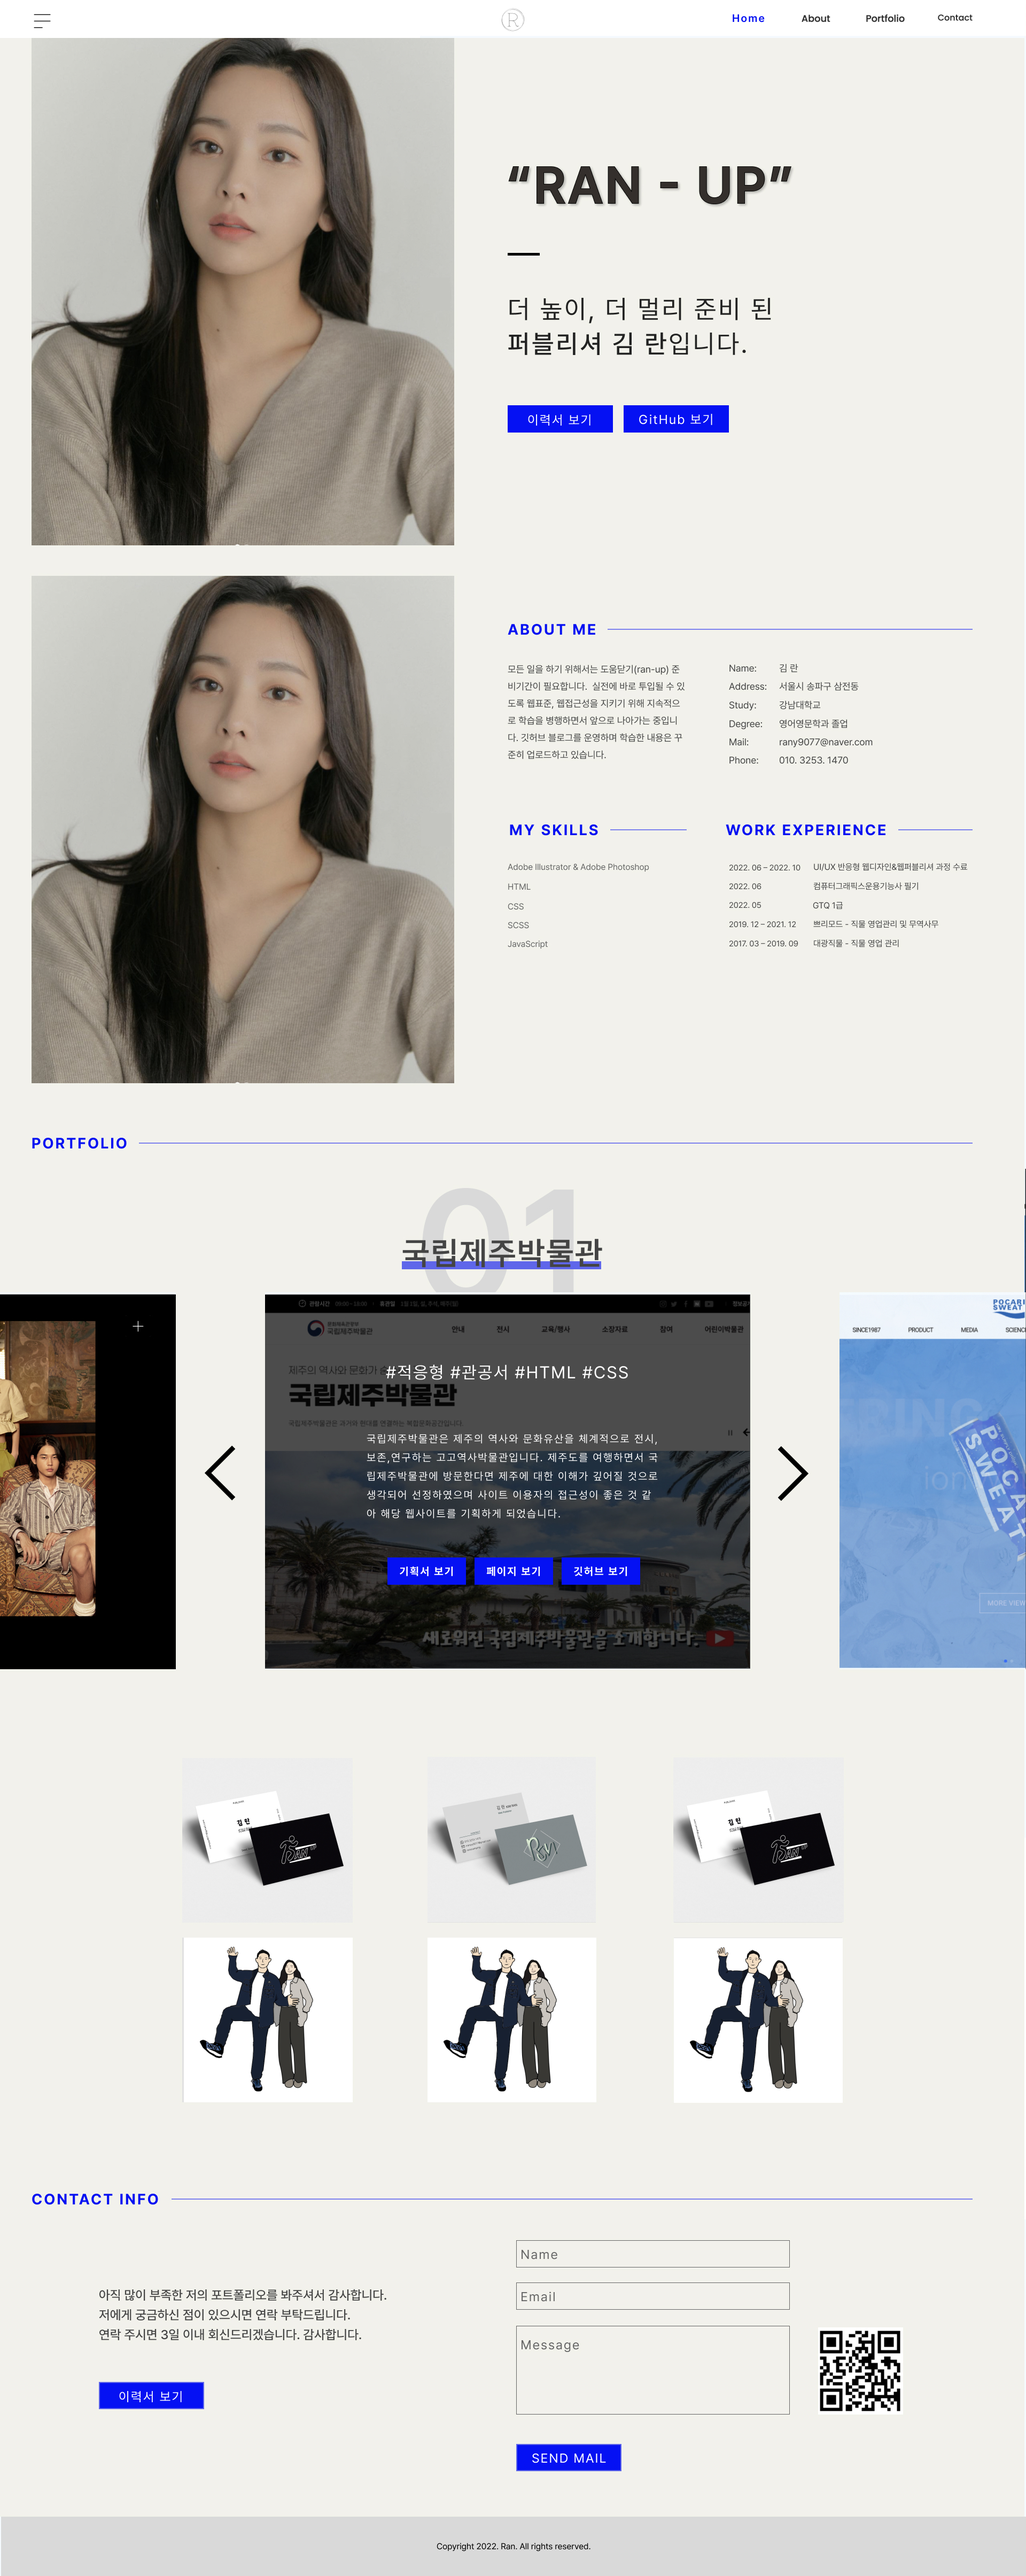
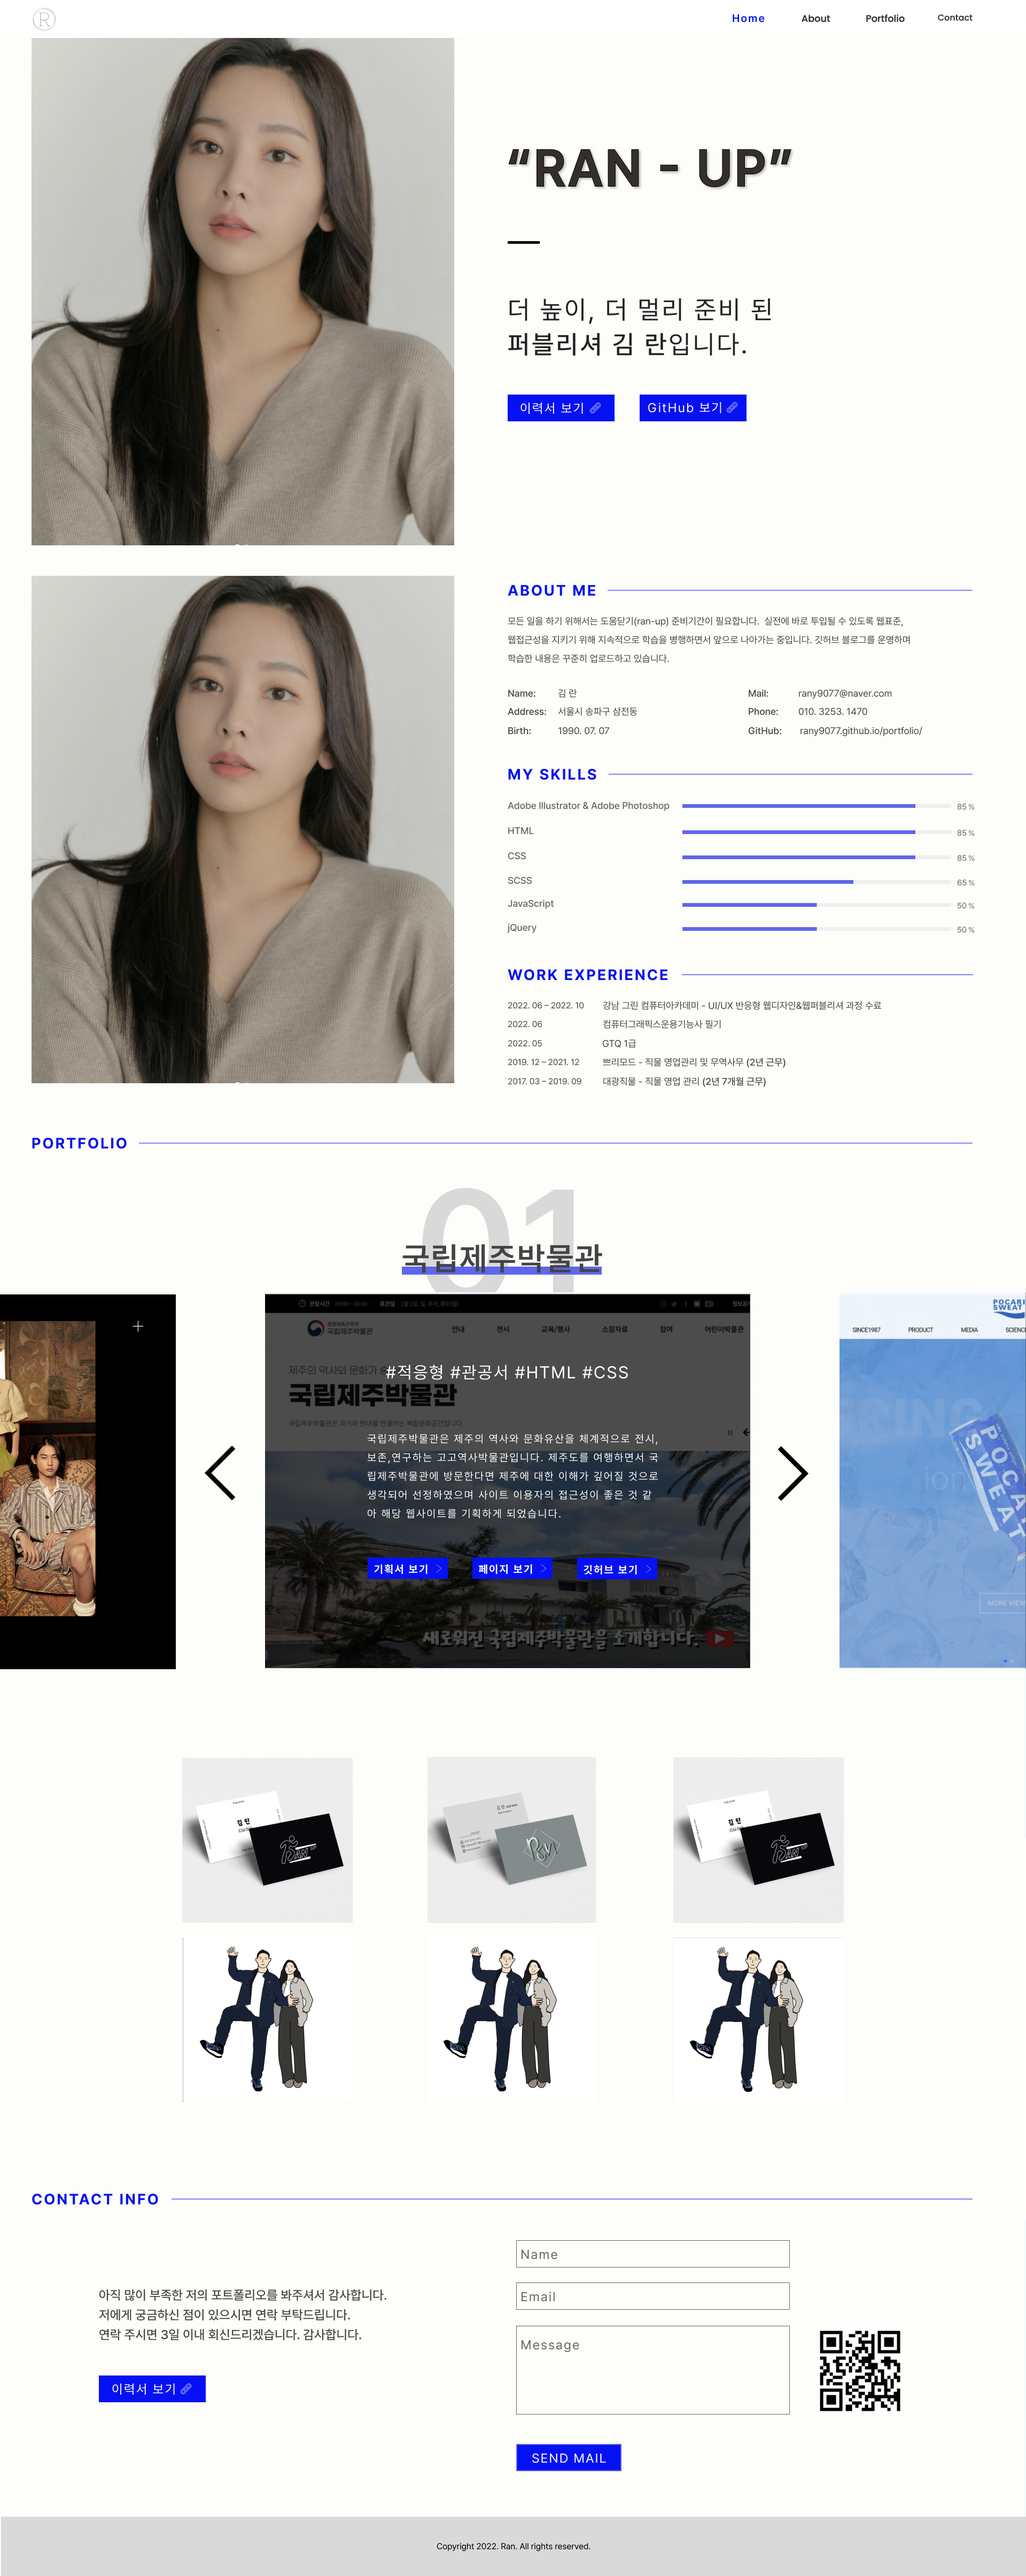
bar-graph추가

diff --git a/index.html b/index.html
@@ -5,13 +5,54 @@
     <meta http-equiv="X-UA-Compatible" content="IE=edge" />
     <meta name="viewport" content="width=device-width, initial-scale=1.0" />
     <title>portfolio</title>
-    <style>
-      body {
-        background: url(img/portfolio.jpg);
-        width: 100%;
-        height: 4818px;
-      }
-    </style>
+    <link rel="stylesheet" href="./css/main.css" />
+    <script src="https://code.jquery.com/jquery-1.12.4.min.js"></script>
+    <script src="./js/main.js"></script>
   </head>
-  <body></body>
+  <body>
+    <div id="wrap"></div>
+    <header id="header" class="h100"></header>
+    <!-- //#header -->
+    <div id="main_visual h100"></div>
+    <!-- //#main_visual -->
+    <div id="content_wrap">
+      <div class="content-1 h100">
+        <div class="aboutMe"></div>
+        <div class="mySkills bar-graph">
+          <div class="animation">
+            <h2 class="title">HTML & CSS</h2>
+            <div class="progress-bar">
+              <div class="bar"></div>
+              <div class="rate" data-rate="85"></div>
+            </div>
+            <h2 class="title">SCSS</h2>
+            <div class="progress-bar">
+              <div class="bar"></div>
+              <div class="rate" data-rate="65"></div>
+            </div>
+            <h2 class="title">JAVA SCRIPT</h2>
+            <div class="progress-bar">
+              <div class="bar"></div>
+              <div class="rate" data-rate="50"></div>
+            </div>
+            <h2 class="title">JQUERY</h2>
+            <div class="progress-bar">
+              <div class="bar"></div>
+              <div class="rate" data-rate="50"></div>
+            </div>
+            <h2 class="title">REACT</h2>
+            <div class="progress-bar">
+              <div class="bar"></div>
+              <div class="rate" data-rate="50"></div>
+            </div>
+            <h2 class="title">ILLUSTRATOR & PHOTOSHOP</h2>
+            <div class="progress-bar">
+              <div class="bar"></div>
+              <div class="rate" data-rate="85"></div>
+            </div>
+          </div>
+        </div>
+      </div>
+    </div>
+  </body>
 </html>

diff --git a/js/main.js b/js/main.js
@@ -1,0 +1,40 @@
+$(function () {
+  const progressBox = $(".progress-bar");
+  const progressOst = $(".animation").offset().top - 500;
+  let isAni = false;
+
+  $(window).scroll(function () {
+    if ($(window).scrollTop() >= progressOst && !isAni) {
+      progressAni();
+    }
+  });
+
+  function progressAni() {
+    progressBox.each(function () {
+      let $this = $(this),
+        progressBar = $this.find(".bar"),
+        progressText = $this.find(".rate"),
+        progressRate = progressText.attr("data-rate");
+      //console.log(progressRate);
+      progressBar.animate({ width: progressRate + "%" }, 2800);
+
+      //변수 text 선언
+      let text = function () {
+        $({ rate: 0 }).animate(
+          { rate: progressRate },
+          {
+            duration: 2000,
+            progress: function () {
+              let now = this.rate;
+              progressText.text(Math.floor(now) + "%");
+            },
+            complete: function () {
+              isAni = true;
+            },
+          }
+        );
+      };
+      text();
+    });
+  }
+});

diff --git a/css/main.css b/css/main.css
@@ -1,0 +1,55 @@
+* {
+  margin: 0;
+  padding: 0;
+  border: 0;
+}
+body {
+  background: url(../img/portfolio.jpg) no-repeat;
+  width: 100%;
+  height: 5000px;
+}
+ol,
+ul {
+  list-style: none;
+}
+h2 {
+  display: inline-block;
+  margin-left: -13em;
+  font-size: 1.5em;
+}
+.clearfix:after {
+  content: "";
+  clear: both;
+  display: block;
+}
+.h100 {
+  height: 100vh;
+}
+.animation {
+  margin-top: 31em;
+  margin-left: 80em;
+}
+.progress-bar {
+  position: relative;
+  width: 540px;
+  height: 20px;
+  background-color: #efefef;
+}
+.progress-bar .bar {
+  position: absolute;
+  left: 0;
+  top: 0;
+  bottom: 0;
+  width: 0;
+  background: #5f66ea;
+}
+
+.progress-bar .rate {
+  position: absolute;
+  top: 0;
+  right: 15px;
+  bottom: 0;
+  line-height: 30px;
+  font-size: 1.2em;
+  color: #0511f2;
+}
